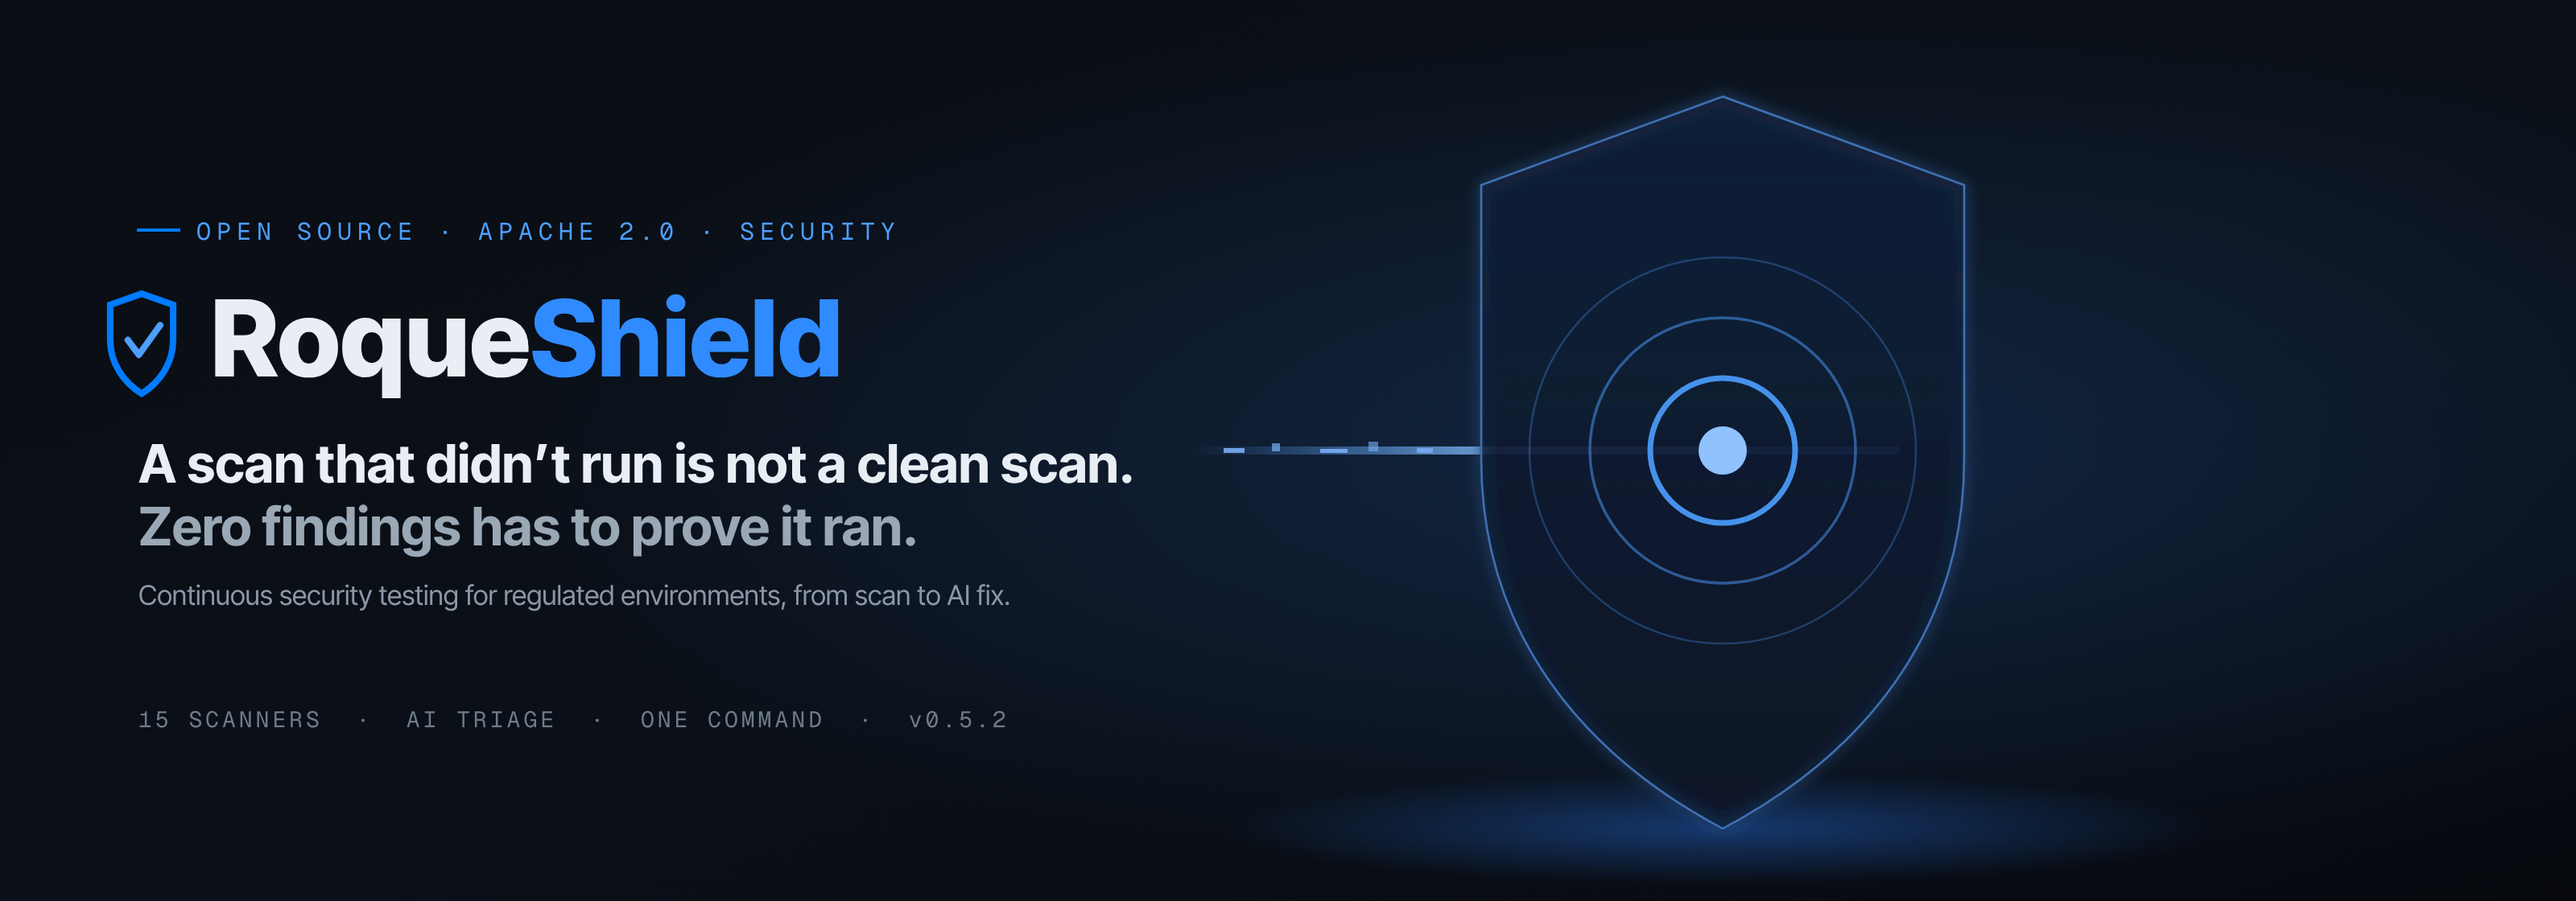
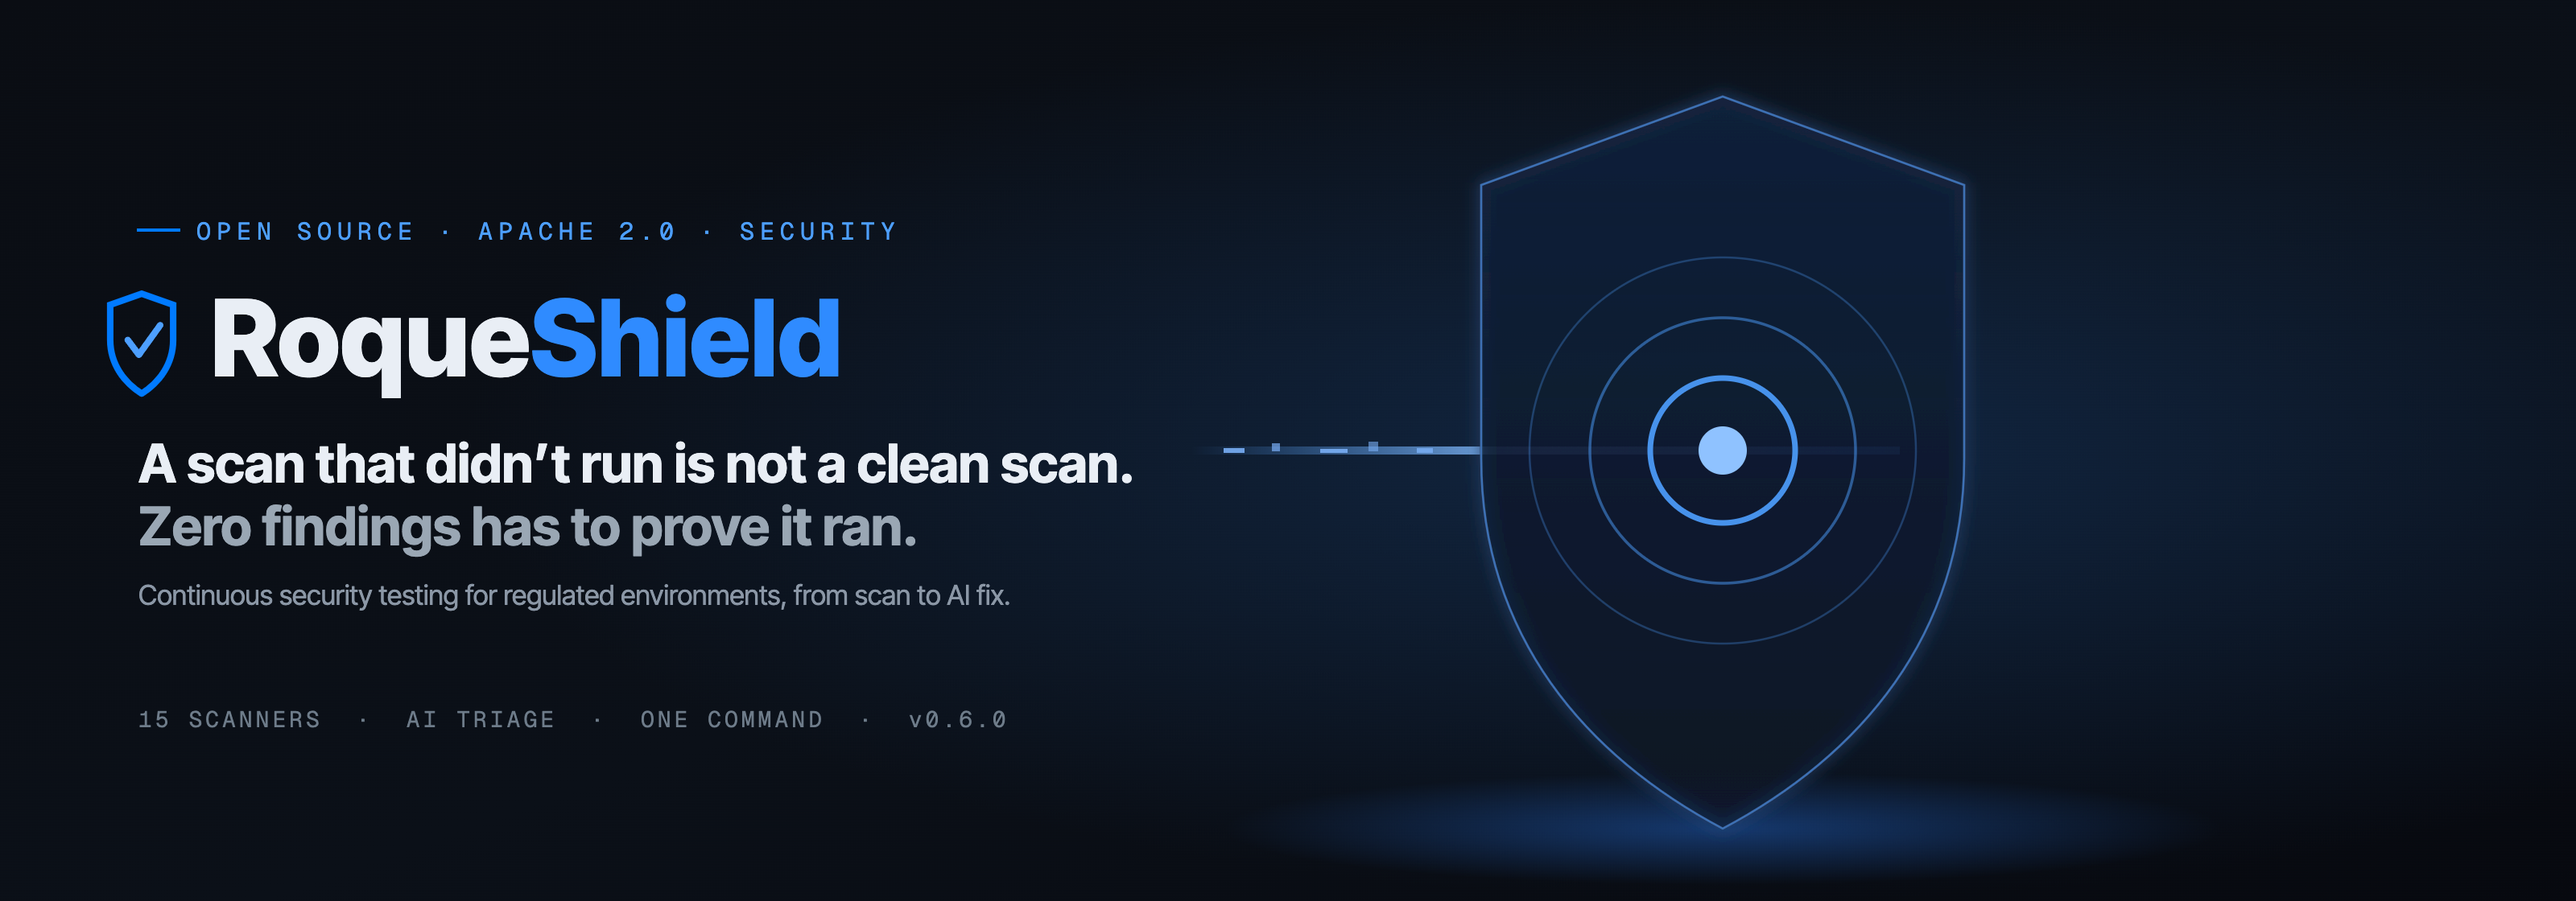
release: 0.6.0
Inventário de ativos, evidência write-once redigida, aprovação humana presa
ao comando, régua de efetividade e os consertos da revisão (#36 a #42).
Versão em pyproject, orchestrator, web, install.sh, OpenAPI e banner.

diff --git a/docs/assets/marca/_banner.pt.html b/docs/assets/marca/_banner.pt.html
@@ -81,6 +81,6 @@
 
     <text class="desc" x="2" y="452">Teste de segurança contínuo para ambientes regulados, do scan ao fix por IA.</text>
 
-    <text class="chip" x="2" y="604">15 SCANNERS&nbsp;&nbsp;·&nbsp;&nbsp;TRIAGEM IA&nbsp;&nbsp;·&nbsp;&nbsp;UM COMANDO&nbsp;&nbsp;·&nbsp;&nbsp;v0.5.2</text>
+    <text class="chip" x="2" y="604">15 SCANNERS&nbsp;&nbsp;·&nbsp;&nbsp;TRIAGEM IA&nbsp;&nbsp;·&nbsp;&nbsp;UM COMANDO&nbsp;&nbsp;·&nbsp;&nbsp;v0.6.0</text>
   </g>
 </svg></body></html>

diff --git a/docs/assets/marca/_banner.en.html b/docs/assets/marca/_banner.en.html
@@ -81,6 +81,6 @@
 
     <text class="desc" x="2" y="452">Continuous security testing for regulated environments, from scan to AI fix.</text>
 
-    <text class="chip" x="2" y="604">15 SCANNERS&nbsp;&nbsp;·&nbsp;&nbsp;AI TRIAGE&nbsp;&nbsp;·&nbsp;&nbsp;ONE COMMAND&nbsp;&nbsp;·&nbsp;&nbsp;v0.5.2</text>
+    <text class="chip" x="2" y="604">15 SCANNERS&nbsp;&nbsp;·&nbsp;&nbsp;AI TRIAGE&nbsp;&nbsp;·&nbsp;&nbsp;ONE COMMAND&nbsp;&nbsp;·&nbsp;&nbsp;v0.6.0</text>
   </g>
 </svg></body></html>

diff --git a/orchestrator/__init__.py b/orchestrator/__init__.py
@@ -4,4 +4,4 @@ A versão mora aqui e só aqui; `scripts/check_docs_fresh.py` confere contra o
 `pyproject.toml`, o `web/package.json` e o `install.sh`.
 """
 
-__version__ = "0.5.2"
+__version__ = "0.6.0"

diff --git a/CHANGELOG.md b/CHANGELOG.md
@@ -7,15 +7,20 @@ and this project adheres to [Semantic Versioning](https://semver.org/spec/v2.0.0
 
 ## [Unreleased]
 
+## [0.6.0] - 2026-11-19
+
 ### Added
 
 - **Régua de efetividade** (`scripts/regua.py`, `orchestrator/regua/`, `tests/regua/`, jobs `regua-deteccao` e `regua-mutacao` no CI). Detecção: recall por camada, falsos positivos em controles limpos e classificação por CWE contra um gabarito de 19 defeitos plantados e 7 controles limpos, com linha de base em catraca e camada sem scanner marcada como "não medida". Testes: catálogo de mutações dos controles críticos, em que cada controle desfeito tem de derrubar o teste que diz protegê-lo.
+- **Testes contra Postgres real** (`tests/postgres/`) e o job de CI "Postgres real (migrations, travas, concorrência)".
+- **Inventário de ativos entre scans** (Frente A): tabelas `assets` e `asset_observations`, campo `asset_id` no `Finding` e no `FindingRow`, e as rotas `GET /inventory` e `GET /inventory/{id}` (`scans:read`). O ativo tem identidade determinística (`asset_key`), persiste entre scans e cada achado aponta para o seu. Vale o contrato do silêncio: ausência num scan posterior só é "sumiu" se um scanner que vê o tipo rodou, senão é "não verificado" (`orchestrator/domain/assets.py`). Migration `0010`. O veredito cross-scan (diff) vem na Frente B.
+- **Aprovação humana por comando** (Frente E, modo `ask`): tabela `command_approvals`, permissão nova `commands:approve` (só ADMIN) e as rotas `GET /approvals`, `POST /approvals/{id}/approve` e `/deny`. A coleira decide primeiro; o que passa vira pendência que uma pessoa aprova ou nega. Tempo limite **nega** (`APPROVAL_TIMEOUT_SECONDS`, fecha fechado); quatro olhos impede quem propôs de aprovar o próprio (`APPROVAL_FOUR_EYES`, ligado). Cada decisão na trilha de auditoria. Sem juiz LLM. Migration `0012`. Mudança aditiva em `roles.py`/`deps.py`, sem remover nenhum gate existente.
+- **Evidência que se sustenta** (Frente C): armazém endereçado por conteúdo (`orchestrator/evidence/`), tabelas write-once `evidence_snapshots` e `evidence_links`, e as rotas `GET /evidence/finding/{deduped_key}`, `GET /evidence/blob/{sha256}`, `GET /evidence/bundle/{scan_id}` (`scans:read`) e `POST /evidence/purge` (`config:manage`). O corpo é **redigido pelo scrubber antes de ser hasheado e gravado** (ao contrário do ARTEX, que grava tráfego em texto puro); toda leitura confere o hash; o bundle derruba o download inteiro se um corpo faltar ou estiver corrompido. Original cifrado é opt-in (`EVIDENCE_ENCRYPT_ORIGINAL`, exige `SECRETS_KEY`). Retenção auditada por `EVIDENCE_RETENTION_DAYS` (apaga o corpo, mantém hash e registro). Trigger append-only em `evidence_snapshots` no Postgres. Migration `0011`.
 
 ### Security
 
 - **Aprovação presa ao comando exato, com consumo único.** A aprovação valia para o `approval_id`, não para o comando: quem aprovava via o texto redigido pelo scrubber (que pode esconder trecho executável) e a execução podia rodar outro comando, ou o mesmo várias vezes. Agora a pendência guarda o HMAC do comando original, a execução chama `consumir(approval_id, comando)` (`approved -> consumed` atômico, só com o comando idêntico), quem aprova lê o original em `GET /approvals/{id}/command` (auditado como `command.read`), e aprovar um comando redigido cujo original não foi guardado é recusado. Migration `0014`.
 - **Evidência redigida também em `findings.payload` e no relatório técnico HTML.** O armazém de blobs já era redigido, mas a evidência crua do scanner ia para o banco e para o HTML gravado em disco.
-
 - **Proveniência da evidência é HMAC, não SHA-256 puro.** O `original_sha256` era o hash sem chave do corpo original, que só difere do redigido nos campos de baixa entropia (CPF, PAN, CVV): dava para descobrir o dado redigido por força bruta. Agora é `hmac-sha256:v1:` com chave derivada da `SECRETS_KEY` (vazio sem ela).
 - **O scrubber roda antes do corte em 16 KB.** Cortar antes deixava o começo de um token ou de um PAN, curto demais para as regex, em claro no disco.
 - **Ler o original cifrado exige `config:manage`** e fica na trilha (`evidence.read_original`); antes qualquer `scans:read` recebia o original com PII sem registro.
@@ -35,14 +40,6 @@ and this project adheres to [Semantic Versioning](https://semver.org/spec/v2.0.0
 - Bundle sem blob repetido e com teto (413 acima de 5.000 corpos ou 256 MB); `sha256` validado na rota.
 - **`GET /findings` devolve o `asset_id`.** Estava gravado (132 de 132 no teste real) mas só aparecia dentro do `payload`; a tela não tinha como ligar o achado ao ativo. Achado pelo ponta a ponta com scan real.
 - `DELETE /scans/{id}` de scan em andamento responde 409 (o worker recriava o scan apagado); `GET /approvals` paginado; `reason` da decisão limitado a 2.000 caracteres e redigido.
-
-### Added
-
-- **Testes contra Postgres real** (`tests/postgres/`) e o job de CI "Postgres real (migrations, travas, concorrência)".
-
-- **Inventário de ativos entre scans** (Frente A): tabelas `assets` e `asset_observations`, campo `asset_id` no `Finding` e no `FindingRow`, e as rotas `GET /inventory` e `GET /inventory/{id}` (`scans:read`). O ativo tem identidade determinística (`asset_key`), persiste entre scans e cada achado aponta para o seu. Vale o contrato do silêncio: ausência num scan posterior só é "sumiu" se um scanner que vê o tipo rodou, senão é "não verificado" (`orchestrator/domain/assets.py`). Migration `0010`. O veredito cross-scan (diff) vem na Frente B.
-- **Aprovação humana por comando** (Frente E, modo `ask`): tabela `command_approvals`, permissão nova `commands:approve` (só ADMIN) e as rotas `GET /approvals`, `POST /approvals/{id}/approve` e `/deny`. A coleira decide primeiro; o que passa vira pendência que uma pessoa aprova ou nega. Tempo limite **nega** (`APPROVAL_TIMEOUT_SECONDS`, fecha fechado); quatro olhos impede quem propôs de aprovar o próprio (`APPROVAL_FOUR_EYES`, ligado). Cada decisão na trilha de auditoria. Sem juiz LLM. Migration `0012`. Mudança aditiva em `roles.py`/`deps.py`, sem remover nenhum gate existente.
-- **Evidência que se sustenta** (Frente C): armazém endereçado por conteúdo (`orchestrator/evidence/`), tabelas write-once `evidence_snapshots` e `evidence_links`, e as rotas `GET /evidence/finding/{deduped_key}`, `GET /evidence/blob/{sha256}`, `GET /evidence/bundle/{scan_id}` (`scans:read`) e `POST /evidence/purge` (`config:manage`). O corpo é **redigido pelo scrubber antes de ser hasheado e gravado** (ao contrário do ARTEX, que grava tráfego em texto puro); toda leitura confere o hash; o bundle derruba o download inteiro se um corpo faltar ou estiver corrompido. Original cifrado é opt-in (`EVIDENCE_ENCRYPT_ORIGINAL`, exige `SECRETS_KEY`). Retenção auditada por `EVIDENCE_RETENTION_DAYS` (apaga o corpo, mantém hash e registro). Trigger append-only em `evidence_snapshots` no Postgres. Migration `0011`.
 
 ## [0.5.2] - 2026-11-08
 
